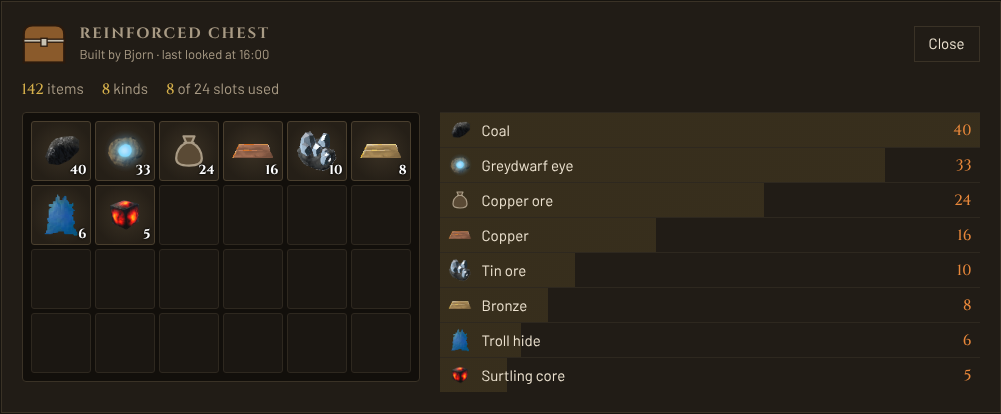
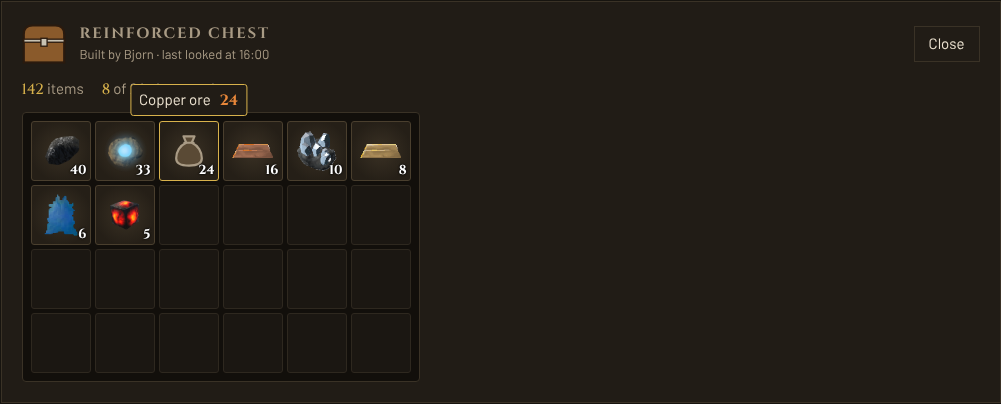
Show each chest's items only in its slots, with the name and count when pointed at or tapped

diff --git a/apps/dashboard/src/lib/components/ChestContents.svelte b/apps/dashboard/src/lib/components/ChestContents.svelte
@@ -1,7 +1,7 @@
 <script lang="ts">
   import ItemIcon from '#/lib/components/ItemIcon';
   import { containerGrid, itemSlots } from '#/lib/items';
-  import { CHEST_LIST_ICON_PX, CHEST_SLOT_ICON_PX } from '#/lib/models';
+  import { CHEST_SLOT_ICON_PX } from '#/lib/models';
 
   /** Prefab of the chest, cart or ship, which picks its slot grid, and how many of each item it holds. */
   let { chest, items }: { chest: string; items: Record<string, number> } = $props();
@@ -17,9 +17,6 @@
 
   /** All the items in the chest, added up. */
   const total = $derived(slots.reduce((sum, slot) => sum + slot.count, 0));
-
-  /** The biggest pile, so each list row's bar shows its pile next to it. */
-  const biggest = $derived(slots[0]?.count ?? 1);
 </script>
 
 {#if slots.length === 0}
@@ -27,31 +24,21 @@
 {:else}
   <p class="facts">
     <span><strong>{total.toLocaleString()}</strong> {total === 1 ? 'item' : 'items'}</span>
-    <span><strong>{slots.length}</strong> {slots.length === 1 ? 'kind' : 'kinds'}</span>
     <span><strong>{slots.length}</strong> of {grid.slots} slots used</span>
   </p>
-  <div class="contents">
-    <ul class="slots" style:--columns={grid.columns} aria-label="Slots as the game shows them">
-      {#each slots as slot (slot.prefab)}
-        <li class="slot" title="{slot.count.toLocaleString()} {slot.name}">
-          <ItemIcon item={slot.name} size={CHEST_SLOT_ICON_PX} />
-          <span class="count">{slot.count.toLocaleString()}</span>
-        </li>
-      {/each}
-      {#each emptySlots as index (index)}
-        <li class="slot empty" aria-hidden="true"></li>
-      {/each}
-    </ul>
-    <ol class="list" aria-label="What is inside, most first">
-      {#each slots as slot (slot.prefab)}
-        <li style:--share="{(slot.count / biggest) * 100}%">
-          <ItemIcon item={slot.name} size={CHEST_LIST_ICON_PX} />
-          <span class="name">{slot.name}</span>
-          <span class="amount">{slot.count.toLocaleString()}</span>
-        </li>
-      {/each}
-    </ol>
-  </div>
+  <ul class="slots" style:--columns={grid.columns} aria-label="What is inside, most first">
+    {#each slots as slot (slot.prefab)}
+      <!-- svelte-ignore a11y_no_noninteractive_tabindex -->
+      <li class="slot" tabindex="0" aria-label="{slot.count.toLocaleString()} {slot.name}">
+        <ItemIcon item={slot.name} size={CHEST_SLOT_ICON_PX} />
+        <span class="count" aria-hidden="true">{slot.count.toLocaleString()}</span>
+        <span class="tip" aria-hidden="true">{slot.name} <strong>{slot.count.toLocaleString()}</strong></span>
+      </li>
+    {/each}
+    {#each emptySlots as index (index)}
+      <li class="slot empty" aria-hidden="true"></li>
+    {/each}
+  </ul>
 {/if}
 
 <style>
@@ -71,26 +58,13 @@
     color: var(--gold);
   }
 
-  /* The game's grid on the left and the readable list on the right, stacked on a phone */
-  .contents {
-    display: grid;
-    grid-template-columns: auto minmax(220px, 1fr);
-    align-items: start;
-    gap: 20px;
-  }
-
-  /* On a phone the list goes under the slots */
-  @media (max-width: 720px) {
-    .contents {
-      grid-template-columns: minmax(0, 1fr);
-    }
-  }
-
   /* Slots in the game's grid for this chest, on a dark wood backing like the game's chest window */
   .slots {
     display: grid;
     grid-template-columns: repeat(var(--columns), 60px);
     gap: 4px;
+    width: fit-content;
+    max-width: 100%;
     margin: 0;
     padding: 8px;
     list-style: none;
@@ -137,35 +111,38 @@
       0 0 2px #000;
   }
 
-  /* Every item with its name and count, most first */
-  .list {
-    display: flex;
-    flex-direction: column;
-    margin: 0;
-    padding: 0;
-    list-style: none;
+  /* Pointing at or tapping a slot lights its edge */
+  .slot:hover,
+  .slot:focus-visible {
+    border-color: var(--gold);
+    outline: none;
   }
 
-  /* One item: icon, name and count, with a faint bar behind that shows its pile next to the biggest one */
-  .list li {
-    display: grid;
-    grid-template-columns: auto minmax(0, 1fr) auto;
-    align-items: center;
-    gap: 10px;
-    padding: 5px 8px;
-    border-top: 1px solid var(--line-soft);
-    background: linear-gradient(to right, rgb(216 178 76 / 12%) var(--share), transparent var(--share));
-  }
-
-  /* Long item names stay on one line */
-  .name {
-    overflow: hidden;
-    text-overflow: ellipsis;
+  /* Item name and count in a small box above the slot, shown only while pointed at or tapped */
+  .tip {
+    position: absolute;
+    bottom: calc(100% + 6px);
+    left: 50%;
+    z-index: 1;
+    display: none;
+    padding: 4px 8px;
     white-space: nowrap;
+    background: var(--panel);
+    border: 1px solid var(--gold);
+    border-radius: 3px;
+    transform: translateX(-50%);
+    pointer-events: none;
   }
 
-  /* Count in the heading font and accent color */
-  .amount {
+  /* The box appears on hover or focus */
+  .slot:hover .tip,
+  .slot:focus .tip {
+    display: block;
+  }
+
+  /* Count in the box stands out */
+  .tip strong {
+    margin-left: 6px;
     font-family: var(--font-heading);
     color: var(--ember);
   }

diff --git a/apps/dashboard/src/lib/models.ts b/apps/dashboard/src/lib/models.ts
@@ -375,9 +375,6 @@ export const TREASURE_CHEST_PREFIX = 'TreasureChest';
 /** Size of an item icon in a chest's slots, in pixels. */
 export const CHEST_SLOT_ICON_PX = 44;
 
-/** Size of an item icon in the list beside a chest's slots, in pixels. */
-export const CHEST_LIST_ICON_PX = 24;
-
 /** What the map draws, in map units: meters east as `x` and meters south as `y`, so north is up. */
 export type MapView = {
   /** SVG view box that fits everything, with a margin. */

diff --git a/docs/architecture.md b/docs/architecture.md
@@ -289,7 +289,7 @@ all chests again, so a new run starts the chest list over. The plugin writes the
 from the game's own world generator, and the map colors only squares someone walked.
 Nothing nobody has seen shows: a chest the world came with appears once someone walks next to it.
 Every chest has its own mark. Chests that would cover each other sit side by side. Tapping one opens it as the
-game's slot grid, with a list of every item, most first. Item names and icons come from the item's prefab, through
+game's slot grid, and pointing at a slot shows the item's name and count. Item names and icons come from the item's prefab, through
 `GEAR_NAMES` and `ITEM_NAMES`, and every name listed there gets its icon downloaded. An item the wiki has no icon
 for shows a plain sack.
 
